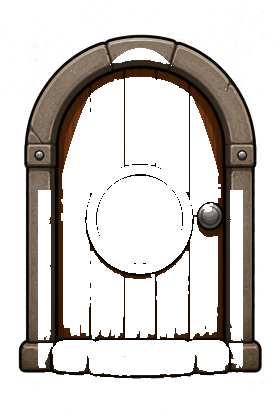
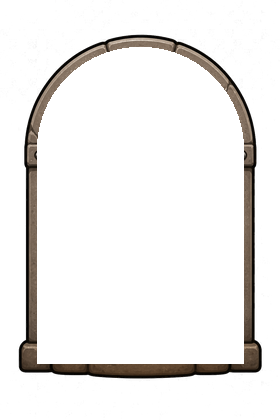
Seal save-door layers so trail sky cannot leak through the wood.
Rebuild a solid leaf and arch-clipped peek on the door canvas, hide the peek until the leaf actually opens, and keep peek sizing matched to the painted frame.

diff --git a/tools/build_save_door_layers.py b/tools/build_save_door_layers.py
@@ -1,34 +1,88 @@
 #!/usr/bin/env python3
-"""Export stone frame, wood leaf, and trail peek textures for save-door hover."""
+"""Export stone frame, solid wood leaf, and arch-clipped trail peeks for save doors."""
 
 from __future__ import annotations
 
-import sys
 from pathlib import Path
 
-from PIL import Image
+from PIL import Image, ImageChops, ImageDraw, ImageFilter
 
 ROOT = Path(__file__).resolve().parents[1]
-sys.path.insert(0, str(ROOT / "tools"))
-from build_door_hover_concept import _crop_peek, _split_door  # noqa: E402
-
 UI = ROOT / "assets" / "ui"
+WOOD_FILL = (141, 86, 42, 255)
+
+
+def _doorway_mask(size: tuple[int, int], *, inset: int = 0) -> Image.Image:
+    """Opaque silhouette of the arched opening the wood leaf should fill."""
+    w, h = size
+    pad = 38 + inset
+    top = 48 + inset
+    bot = h - 58 - inset
+    mask = Image.new("L", (w, h), 0)
+    draw = ImageDraw.Draw(mask)
+    inner_w = w - pad * 2
+    arch_box = (pad, top, w - pad, top + inner_w)
+    draw.pieslice(arch_box, 180, 360, fill=255)
+    spring = top + inner_w // 2
+    draw.rectangle((pad, spring, w - pad, bot), fill=255)
+    return mask
+
+
+def _split_solid_door(door: Image.Image) -> tuple[Image.Image, Image.Image, Image.Image]:
+    """Return (stone_frame, solid_leaf, opening_mask). Leaf has no interior holes."""
+    w, h = door.size
+    opening = _doorway_mask((w, h), inset=0)
+    # Tuck leaf rim under the stone so seams cannot leak the peek.
+    opening_under_stone = opening.filter(ImageFilter.MaxFilter(3))
+
+    wood_plate = Image.new("RGBA", (w, h), (0, 0, 0, 0))
+    ImageDraw.Draw(wood_plate).bitmap((0, 0), opening_under_stone, fill=WOOD_FILL)
+    clipped = door.copy()
+    clipped.putalpha(ImageChops.multiply(door.split()[-1], opening_under_stone))
+    leaf = Image.alpha_composite(wood_plate, clipped)
+
+    frame = door.copy()
+    fp = frame.load()
+    om = opening_under_stone.load()
+    for y in range(h):
+        for x in range(w):
+            if om[x, y] > 0:
+                fp[x, y] = (0, 0, 0, 0)
+    return frame, leaf, opening
+
+
+def _crop_peek(src: Image.Image, kind: str, size: tuple[int, int]) -> Image.Image:
+    h = min(720, src.height)
+    base = src.crop((0, 0, src.width, h))
+    if kind == "desert":
+        box = (420, 180, 900, 560)
+    else:
+        box = (380, 140, 900, 560)
+    return base.crop(box).resize(size, Image.Resampling.LANCZOS)
+
+
+def _arch_peek(src: Image.Image, kind: str, opening: Image.Image) -> Image.Image:
+    """Trail crop clipped to the doorway so sky cannot leak around the stone."""
+    filled = _crop_peek(src, kind, opening.size).convert("RGBA")
+    # Showcase shots have translucent pixels; flatten so the peek itself has no holes.
+    backdrop = (148, 203, 222, 255) if kind == "desert" else (42, 28, 58, 255)
+    opaque = Image.new("RGBA", opening.size, backdrop)
+    opaque = Image.alpha_composite(opaque, filled)
+    opaque.putalpha(opening)
+    return opaque
 
 
 def main() -> int:
     door = Image.open(UI / "menu_save_door.png").convert("RGBA")
-    stone, leaf = _split_door(door)
+    frame, leaf, opening = _split_solid_door(door)
     desert = Image.open(ROOT / "docs" / "showcase" / "desert_trail.png").convert("RGB")
     cave = Image.open(ROOT / "docs" / "showcase" / "cave_trail.png").convert("RGB")
-    peek_size = (210, 320)
-    desert_peek = _crop_peek(desert, "desert", peek_size)
-    cave_peek = _crop_peek(cave, "cave", peek_size)
 
-    stone.save(UI / "menu_save_door_frame.png")
+    frame.save(UI / "menu_save_door_frame.png")
     leaf.save(UI / "menu_save_door_leaf.png")
-    desert_peek.save(UI / "menu_door_peek_desert.png")
-    cave_peek.save(UI / "menu_door_peek_cave.png")
-    print("wrote frame, leaf, and peek textures under assets/ui/")
+    _arch_peek(desert, "desert", opening).save(UI / "menu_door_peek_desert.png")
+    _arch_peek(cave, "cave", opening).save(UI / "menu_door_peek_cave.png")
+    print("wrote solid frame, leaf, and arch-clipped peeks under assets/ui/")
     return 0
 
 
